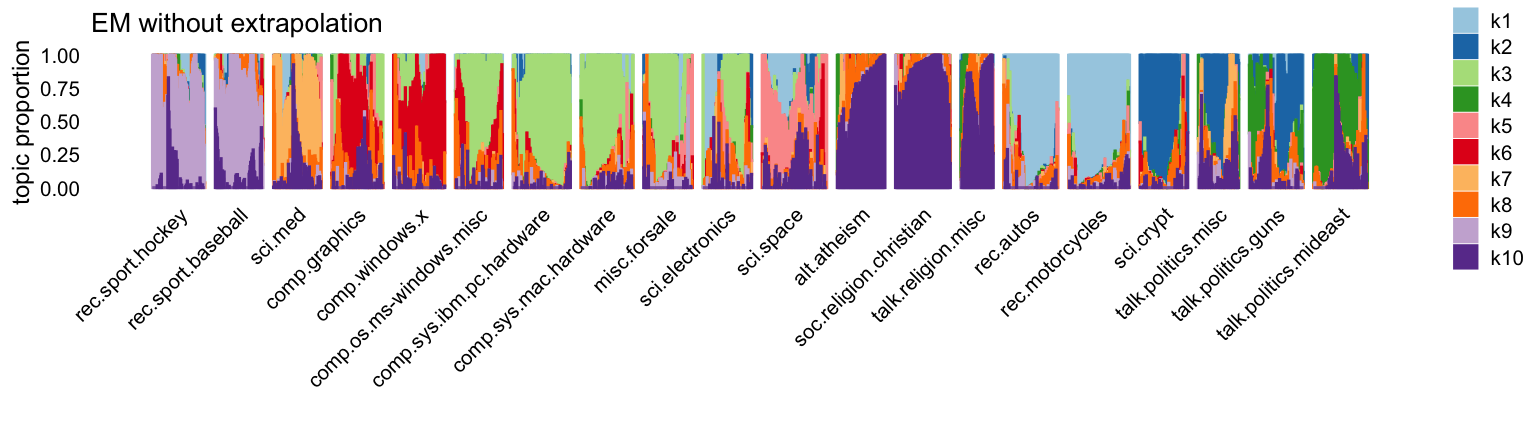
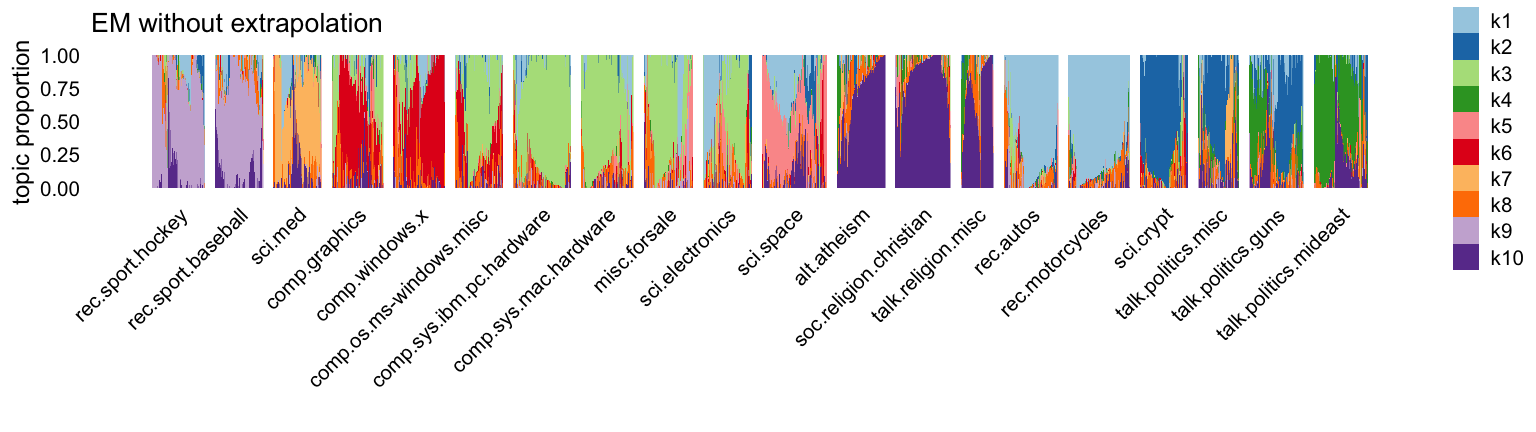
Rebuilt the newsgroups_more analysis with the latest version of fastTopics.

diff --git a/docs/newsgroups_more.html b/docs/newsgroups_more.html
@@ -301,7 +301,7 @@ class="glyphicon glyphicon-ok text-success" aria-hidden="true"></span>
 <div class="tab-content">
 <div id="summary" class="tab-pane fade in active">
 <p>
-<strong>Last updated:</strong> 2024-08-10
+<strong>Last updated:</strong> 2025-07-01
 </p>
 <p>
 <strong>Checks:</strong> <span
@@ -433,15 +433,15 @@ project makes it easier to run your code on other machines.</p>
 <div class="panel panel-default">
 <div class="panel-heading">
 <p class="panel-title">
-<a data-toggle="collapse" data-parent="#workflowr-checks" href="#strongRepositoryversionstrongahrefhttpsgithubcomstephenslabfastTopicsexperimentstree1716ea38accf6cbb8fdaa01efc3e3b52623f69e3targetblank1716ea3a">
+<a data-toggle="collapse" data-parent="#workflowr-checks" href="#strongRepositoryversionstrongahrefhttpsgithubcomstephenslabfastTopicsexperimentstreefbfb49de6bf1dbdab596484b845b796118b9a04btargetblankfbfb49da">
 <span class="glyphicon glyphicon-ok text-success"
 aria-hidden="true"></span> <strong>Repository version:</strong>
-<a href="https://github.com/stephenslab/fastTopics-experiments/tree/1716ea38accf6cbb8fdaa01efc3e3b52623f69e3" target="_blank">1716ea3</a>
+<a href="https://github.com/stephenslab/fastTopics-experiments/tree/fbfb49de6bf1dbdab596484b845b796118b9a04b" target="_blank">fbfb49d</a>
 </a>
 </p>
 </div>
 <div
[2 lines of base64/hex data omitted]
 class="panel-collapse collapse">
 <div class="panel-body">
 <p>
@@ -451,7 +451,7 @@ reproducibility.
 </p>
 <p>
 The results in this page were generated with repository version
-<a href="https://github.com/stephenslab/fastTopics-experiments/tree/1716ea38accf6cbb8fdaa01efc3e3b52623f69e3" target="_blank">1716ea3</a>.
+<a href="https://github.com/stephenslab/fastTopics-experiments/tree/fbfb49de6bf1dbdab596484b845b796118b9a04b" target="_blank">fbfb49d</a>.
 See the <em>Past versions</em> tab to see a history of the changes made
 to the R Markdown and HTML files.
 </p>
@@ -471,23 +471,26 @@ Ignored files:
     Ignored:    data/droplet.RData
     Ignored:    data/nips_1-17.mat
     Ignored:    data/pbmc_68k.RData
+    Ignored:    output/droplet/fits-droplet.RData
+    Ignored:    output/droplet/lda-droplet.RData
     Ignored:    output/newsgroups/de-newsgroups.RData
+    Ignored:    output/newsgroups/fits-newsgroups.RData
+    Ignored:    output/newsgroups/lda-newsgroups.RData
     Ignored:    output/newsgroups/rds/
+    Ignored:    output/nips/fits-nips.RData
+    Ignored:    output/nips/lda-nips.RData
     Ignored:    output/pbmc68k/rds/
 
 Untracked files:
-    Untracked:  analysis/#examine_pbmc68k_more.R#
-    Untracked:  analysis/.#examine_pbmc68k_more.R
+    Untracked:  .DS_Store
     Untracked:  analysis/lda-eb-newsgroups-em-k=10.rds
     Untracked:  analysis/lda-eb-newsgroups-scd-ex-k=10.rds
     Untracked:  analysis/lda-newsgroups-em-k=10.rds
     Untracked:  analysis/lda-newsgroups-scd-ex-k=10.rds
     Untracked:  analysis/maptpx-newsgroups-em-k=10.rds
     Untracked:  analysis/maptpx-newsgroups-scd-ex-k=10.rds
+    Untracked:  analysis/mcf7_cache/
     Untracked:  plots/
-
-Unstaged changes:
-    Modified:   analysis/examine_pbmc68k_more.R
 
 </code></pre>
 <p>
@@ -533,6 +536,23 @@ Message
 </tr>
 </thead>
 <tbody>
+<tr>
+<td>
+html
+</td>
+<td>
+<a href="https://rawcdn.githack.com/stephenslab/fastTopics-experiments/d30514992ab6944f806e1ef754ca109f37f90d15/docs/newsgroups_more.html" target="_blank">d305149</a>
+</td>
+<td>
+Peter Carbonetto
+</td>
+<td>
+2024-08-10
+</td>
+<td>
+Fixed one of the structure plots in newsgroups_more analysis.
+</td>
+</tr>
 <tr>
 <td>
 Rmd
@@ -851,6 +871,17 @@ Date
 <tbody>
 <tr>
 <td>
+<a href="https://github.com/stephenslab/fastTopics-experiments/blob/d30514992ab6944f806e1ef754ca109f37f90d15/docs/figure/newsgroups_more.Rmd/structure-plot-cd-1.png" target="_blank">d305149</a>
+</td>
+<td>
+Peter Carbonetto
+</td>
+<td>
+2024-08-10
+</td>
+</tr>
+<tr>
+<td>
 <a href="https://github.com/stephenslab/fastTopics-experiments/blob/2b1b3d5171792963d78a06f627559b46e732403c/docs/figure/newsgroups_more.Rmd/structure-plot-cd-1.png" target="_blank">2b1b3d5</a>
 </td>
 <td>
@@ -976,7 +1007,7 @@ Session information
 <pre class="r"><code>sessionInfo()
 # R version 4.3.3 (2024-02-29)
 # Platform: aarch64-apple-darwin20 (64-bit)
-# Running under: macOS Sonoma 14.5
+# Running under: macOS 15.5
 # 
 # Matrix products: default
 # BLAS:   /Library/Frameworks/R.framework/Versions/4.3-arm64/Resources/lib/libRblas.0.dylib 
@@ -992,39 +1023,40 @@ Session information
 # [1] stats     graphics  grDevices utils     datasets  methods   base     
 # 
 # other attached packages:
-# [1] cowplot_1.1.3      ggplot2_3.5.0      fastTopics_0.6-184 topicmodels_0.2-16
+# [1] cowplot_1.1.3      ggplot2_3.5.0      fastTopics_0.7-25  topicmodels_0.2-16
 # [5] Matrix_1.6-5      
 # 
 # loaded via a namespace (and not attached):
-#  [1] gtable_0.3.4        xfun_0.42           bslib_0.6.1        
-#  [4] htmlwidgets_1.6.4   ggrepel_0.9.5       lattice_0.22-5     
-#  [7] quadprog_1.5-8      vctrs_0.6.5         tools_4.3.3        
-# [10] generics_0.1.3      stats4_4.3.3        parallel_4.3.3     
-# [13] tibble_3.2.1        fansi_1.0.6         highr_0.10         
-# [16] pkgconfig_2.0.3     data.table_1.15.2   SQUAREM_2021.1     
-# [19] RcppParallel_5.1.7  lifecycle_1.0.4     truncnorm_1.0-9    
-# [22] farver_2.1.1        compiler_4.3.3      stringr_1.5.1      
-# [25] git2r_0.33.0        textshaping_0.3.7   progress_1.2.3     
-# [28] munsell_0.5.0       RhpcBLASctl_0.23-42 httpuv_1.6.14      
-# [31] htmltools_0.5.7     sass_0.4.8          lazyeval_0.2.2     
-# [34] yaml_2.3.8          plotly_4.10.4       crayon_1.5.2       
-# [37] tidyr_1.3.1         later_1.3.2         pillar_1.9.0       
-# [40] jquerylib_0.1.4     whisker_0.4.1       uwot_0.1.16        
-# [43] cachem_1.0.8        gtools_3.9.5        tidyselect_1.2.1   
-# [46] digest_0.6.34       Rtsne_0.17          stringi_1.8.3      
-# [49] slam_0.1-50         purrr_1.0.2         dplyr_1.1.4        
-# [52] ashr_2.2-66         labeling_0.4.3      rprojroot_2.0.4    
-# [55] fastmap_1.1.1       grid_4.3.3          colorspace_2.1-0   
-# [58] cli_3.6.2           invgamma_1.1        magrittr_2.0.3     
-# [61] utf8_1.2.4          withr_3.0.0         prettyunits_1.2.0  
-# [64] scales_1.3.0        promises_1.2.1      rmarkdown_2.26     
-# [67] httr_1.4.7          workflowr_1.7.1     ragg_1.2.7         
-# [70] hms_1.1.3           modeltools_0.2-23   NLP_0.2-1          
-# [73] pbapply_1.7-2       evaluate_0.23       knitr_1.45         
-# [76] viridisLite_0.4.2   irlba_2.3.5.1       tm_0.7-13          
-# [79] rlang_1.1.3         Rcpp_1.0.12         mixsqp_0.3-54      
-# [82] glue_1.7.0          xml2_1.3.6          jsonlite_1.8.8     
-# [85] R6_2.5.1            systemfonts_1.0.6   fs_1.6.3</code></pre>
+#  [1] tidyselect_1.2.1    viridisLite_0.4.2   dplyr_1.1.4        
+#  [4] farver_2.1.1        fastmap_1.1.1       lazyeval_0.2.2     
+#  [7] promises_1.2.1      digest_0.6.34       lifecycle_1.0.4    
+# [10] NLP_0.2-1           invgamma_1.1        magrittr_2.0.3     
+# [13] compiler_4.3.3      rlang_1.1.5         sass_0.4.9         
+# [16] progress_1.2.3      tools_4.3.3         utf8_1.2.4         
+# [19] yaml_2.3.8          data.table_1.17.4   knitr_1.45         
+# [22] prettyunits_1.2.0   labeling_0.4.3      htmlwidgets_1.6.4  
+# [25] plyr_1.8.9          xml2_1.3.6          Rtsne_0.17         
+# [28] workflowr_1.7.1     withr_3.0.2         purrr_1.0.2        
+# [31] grid_4.3.3          stats4_4.3.3        fansi_1.0.6        
+# [34] git2r_0.33.0        tm_0.7-13           colorspace_2.1-0   
+# [37] scales_1.3.0        gtools_3.9.5        cli_3.6.4          
+# [40] rmarkdown_2.26      crayon_1.5.2        ragg_1.2.7         
+# [43] generics_0.1.3      RcppParallel_5.1.10 httr_1.4.7         
+# [46] reshape2_1.4.4      pbapply_1.7-2       cachem_1.0.8       
+# [49] stringr_1.5.1       modeltools_0.2-23   parallel_4.3.3     
+# [52] vctrs_0.6.5         jsonlite_1.8.8      slam_0.1-50        
+# [55] hms_1.1.3           mixsqp_0.3-54       ggrepel_0.9.5      
+# [58] irlba_2.3.5.1       systemfonts_1.0.6   plotly_4.10.4      
+# [61] jquerylib_0.1.4     tidyr_1.3.1         glue_1.8.0         
+# [64] uwot_0.2.3          stringi_1.8.3       gtable_0.3.4       
+# [67] later_1.3.2         quadprog_1.5-8      munsell_0.5.0      
+# [70] tibble_3.2.1        pillar_1.9.0        htmltools_0.5.8.1  
+# [73] truncnorm_1.0-9     R6_2.5.1            textshaping_0.3.7  
+# [76] rprojroot_2.0.4     evaluate_1.0.3      lattice_0.22-5     
+# [79] highr_0.10          RhpcBLASctl_0.23-42 SQUAREM_2021.1     
+# [82] ashr_2.2-66         httpuv_1.6.14       bslib_0.6.1        
+# [85] Rcpp_1.0.12         whisker_0.4.1       xfun_0.42          
+# [88] fs_1.6.5            pkgconfig_2.0.3</code></pre>
 </div>
 
 
